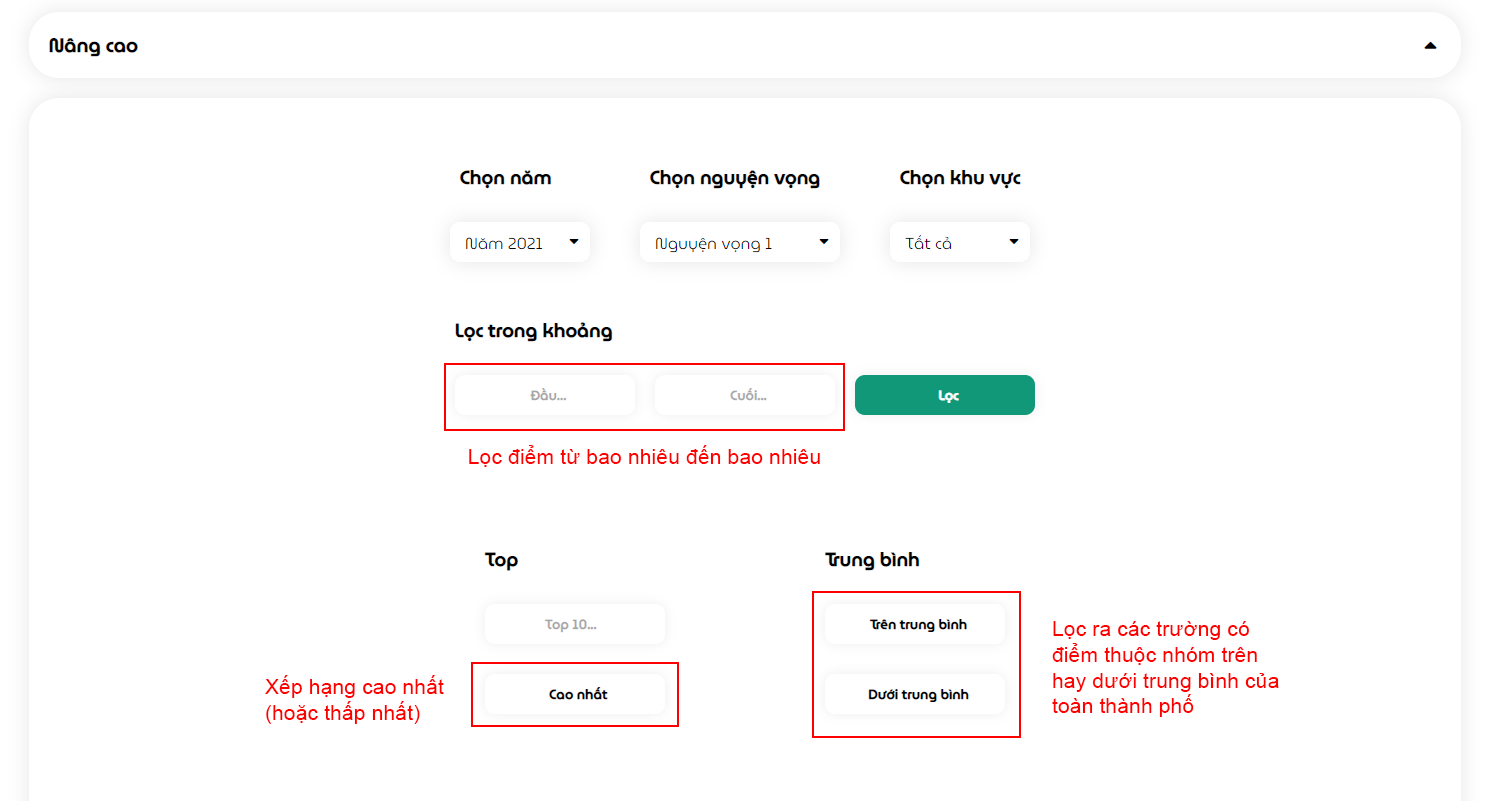
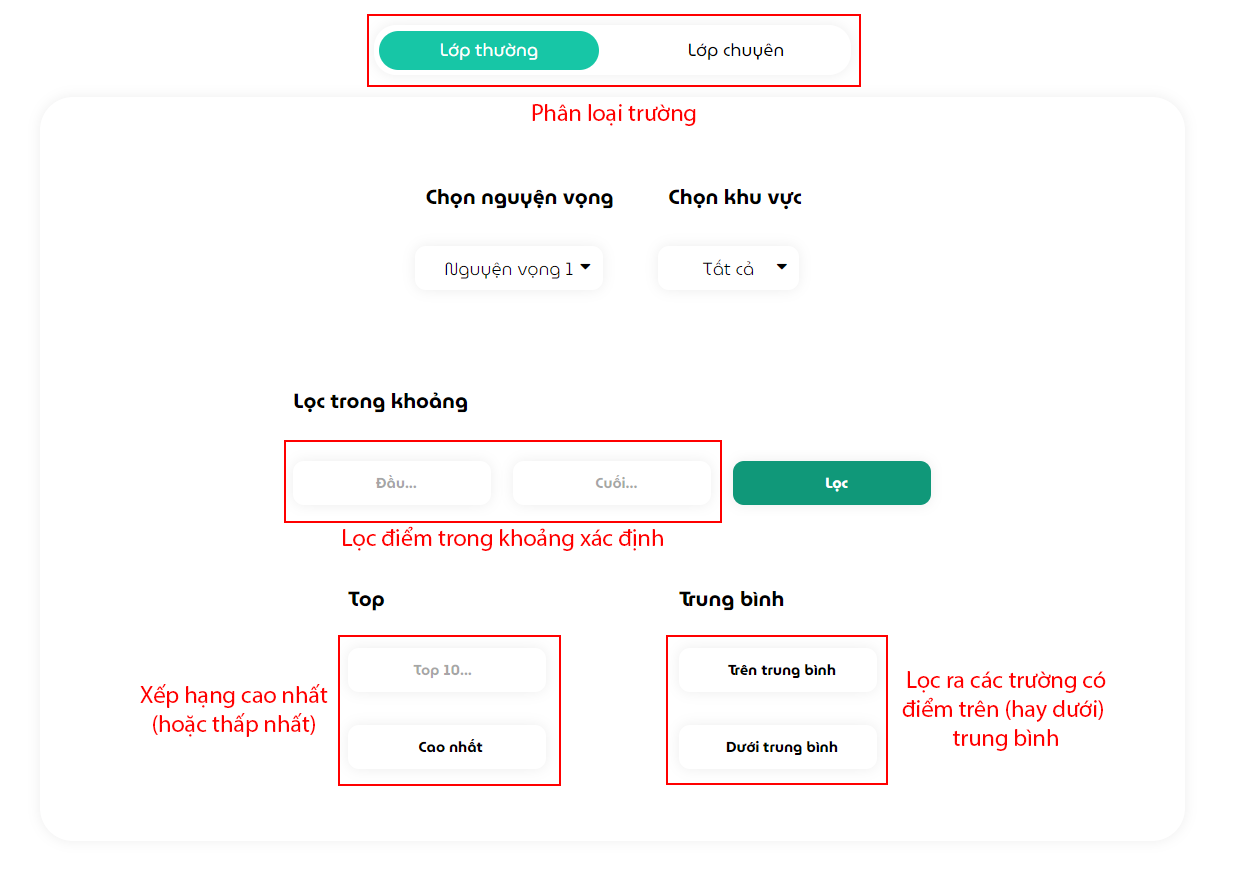
promotion video added to homepage.

diff --git a/src/docs_page/filter_page.html b/src/docs_page/filter_page.html
@@ -20,55 +20,10 @@
                 <div class="menu-container"></div>
 
                 <div class="content-container">
-                    <section id="basic-filter">
-                        <h2>
-                            Đề xuất cơ bản
-                            <a href="#basic-filter" class="headerlink">¶</a>
-                        </h2>
-
-                        <p>
-                            Tại phần <b>cơ bản</b>, người dùng được yêu cầu nhập điểm <b>Toán, Văn, Anh</b> tuỳ ý
-                            và chọn <b>năm, khu vực, nguyện vọng</b> (hoặc để theo mặc định). Sau đó hệ thống sẽ tự
-                            động tính điểm nguyện vọng và đề xuất các trường phù hợp với tiêu chí đó.
-                        </p>
-
-                        <h3 class="bigger-1">- Phần dành cho lớp chuyên:</h3>
-                        <img src="./assets/img/filter_page_17.png" alt="01" loading="lazy">
-
-                        <h3 class="bigger-1">- Phần dành cho lớp thường:</h3>
-                        <img src="./assets/img/filter_page_01.png" alt="01" loading="lazy">
-
-                        <h3 class="bigger-1">- Sau khi nhập đầy đủ, kết quả hiển thị như hình bên dưới:</h3>
-
-                        <img src="./assets/img/filter_page_02.png"  loading="lazy" alt="01" style="width: 50%; margin: 30px auto; display: block;">
-                        <img src="./assets/img/filter_page_03.png" alt="01" loading="lazy">
-
-                        <div class="admonition note">
-                            <div class="admonition__logo">
-                                <i class="fi fi-rr-info"></i>
-                                <h3>Ghi chú</h3>
-                            </div>
-                            <div class="admonition__content">
-                                <p>
-                                    Một số bảng kết quả có chức năng <b>sắp xếp điểm theo thứ tự</b> (ví dụ như các bảng trong 
-                                    <a href="../filter_page/">Đề xuất</a>), thuận lợi trong việc xếp hạng.
-                                </p>
-                            </div>
-                        </div>
-
-                        <p style="margin-top: 50px;">
-                            Điểm <b>giảm dần (từ cao đến thấp)</b> hình bên trái, 
-                            điểm <b>tăng dần (từ thấp đến cao)</b> hình bên phải.
-                        </p>
-
-                        <img src="./assets/img/filter_page_04.png" alt="01" loading="lazy" style="float: left; width: 48%;">
-                        <img src="./assets/img/filter_page_05.png" alt="01" loading="lazy" style="float: right; width: 48%;">
-
-                    </section>
 
                     <section id="basic-filter">
                         <h2>
-                            Đề xuất nâng cao
+                            Đề xuất
                             <a href="#basic-filter" class="headerlink">¶</a>
                         </h2>
 
@@ -96,11 +51,23 @@
                             </li>
                             <li>
                                 Tại phần <b>Trung bình</b>, hệ thống tự động tính điểm trung bình của toàn thành
-                                phố dựa trên <b>năm, nguyện vọng và khu vực</b> đã được chọn ở trên. Người dùng 
+                                phố dựa trên <b>nguyện vọng và khu vực</b> đã được chọn ở trên. Người dùng 
                                 chỉ cần lựa chọn hiển thị các trường với số điểm <b>trên trung bình</b> hoặc <b>
                                 dưới trung bình </b>so với toàn khu vực.
                             </li>
                         </ul>
+                    </section>
+
+                    <section>
+                        <h2>
+                            Tuỳ chọn bộ lọc
+                            <a href="#filter-between" class="headerlink">¶</a>
+                        </h2>
+
+                        <p>- Tuỳ chọn nguyện vọng và khu vực để phân vùng phạm vi lọc điểm.</p>
+
+                        <img src="./assets/img/filter_page_18.png" alt="01" loading="lazy">
+                        
                     </section>
 
                     <section id="filter-between">

diff --git a/src/home_page/assets/css/style.css b/src/home_page/assets/css/style.css
@@ -32,6 +32,13 @@ ul * {
     text-align: left;
 }
 
+iframe {
+    height: 350px;
+    width: 60%;
+    display: block;
+    margin: 0 auto;
+}
+
 
 #title-container, #section1-container, #section2-container, #section3-container,
 #section4-container, #section5-container {
@@ -448,8 +455,19 @@ ul * {
     text-decoration: none;
 }
 
+.embed-vid {
+    margin: 50px 30px;
+    background: var(--second-primary-color);
+    box-shadow: var(--box-shadow-lighter);
+    border-radius: 20px;
+    transition: all ease 0.5s;
+}
 
 @media only screen and (max-width:64em) {
+    iframe {
+        width: 100%;
+    }
+
     .section2 .content .part {
         margin: 4% 1%;
         flex: auto;
@@ -510,5 +528,9 @@ ul * {
 
     .section5 .content .card {
         padding: 20px;
+    }
+
+    .embed-vid {
+        padding: 0 !important;
     }
 }

diff --git a/src/home_page/index.html b/src/home_page/index.html
@@ -60,6 +60,9 @@
 							<li>PH/HS khó đưa ra quyết định đúng đắn.</li>
 						</ul>
 					</div>
+					<div class="part embed-vid">
+						<iframe style="border-radius: 10px;" src="https://www.youtube.com/embed/bK5cp5GFe3o" title="SCORE Product Experience" frameborder="0" allow="accelerometer; autoplay; clipboard-write; encrypted-media; gyroscope; picture-in-picture; web-share" allowfullscreen></iframe>
+					</div>
 
 				</div>
 			</div>

diff --git a/src/home_page/js/main.js b/src/home_page/js/main.js
@@ -23,7 +23,7 @@ function getLanguages(url) {
     var languages = {}
     var total = 0
 
-    languages = JSON.parse('{"HTML": 588306, "CSS": 329724, "PHP": 130474, "Hack": 84093, "JavaScript": 52295, "Python": 3029}')
+    languages = JSON.parse('{"HTML": 649065,"CSS": 381544,"PHP": 177030,"Hack": 84450,"JavaScript": 77000,"Python": 4093}')
 
     for (const i in languages) {
         total += languages[i]
